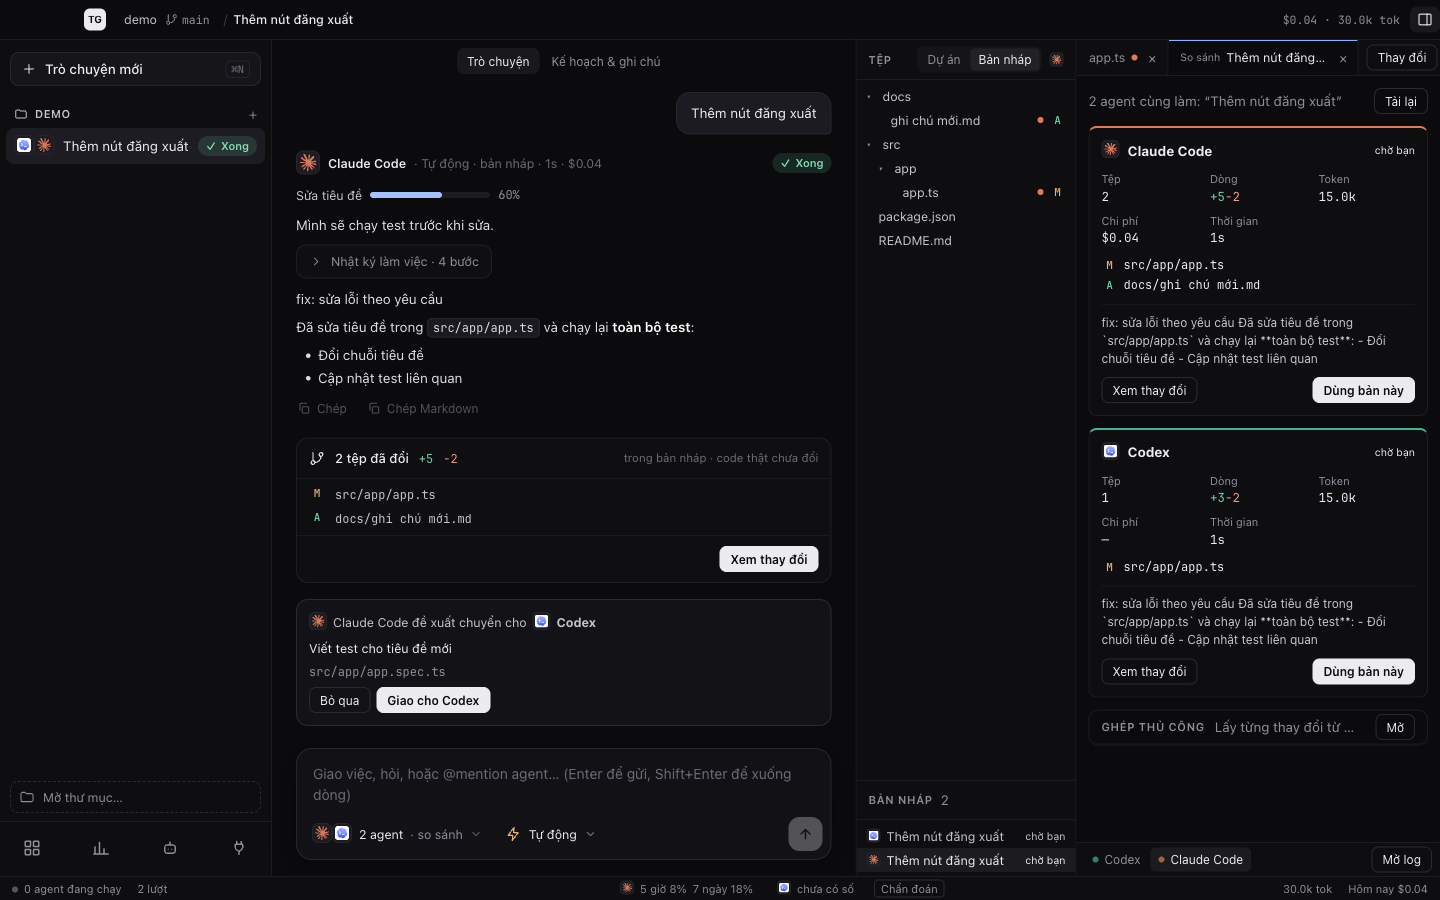
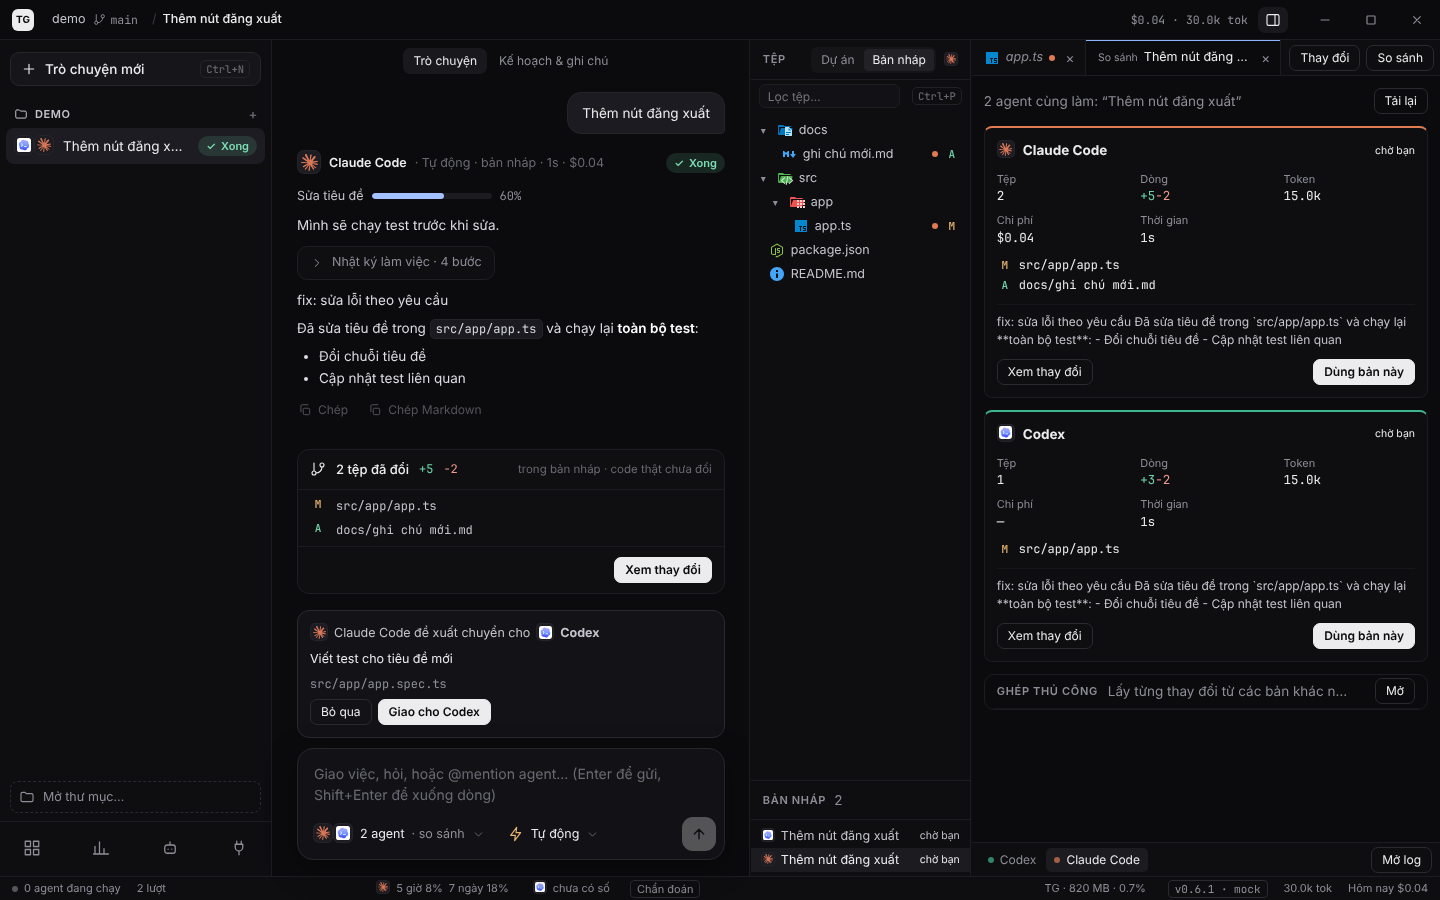
docs: architecture after the refactor, fresh screenshots, ui-review capture script
ARCHITECTURE.md: module diagram by domain, the full agent-event contract,
direct and draft workplaces with the git-style Changes tab, the chat-first
layout, and a section on delegated agents and Claude's own subagents.

Screenshots in docs/images and all ui-review screens are taken again from the
mock (v0.6.1), with two new review screens: the Changes tab and delegation.
scripts/capture-ui-review.js produces the ui-review WebP files; the README
capture also shows the Changes tab and a delegation.

The mock's version now comes from version-sync (and release stages it), so
screenshots show the real version. Two hints still said changes are undone
hunk by hunk; they now say per file.

Claude-Session: https://claude.ai/code/session_019ESpyWVEEKKYJq5zzNYY2i

diff --git a/scripts/capture-ui-review.js b/scripts/capture-ui-review.js
@@ -1,0 +1,133 @@
+// Screens for docs/ui-review/ (img/<id>.webp, 1440×900 at 2×), taken from the mock UI.
+// The download site's gallery uses some of them too.
+//   npm start -- --port 4321
+//   node scripts/capture-ui-review.js [out-dir]        (default docs/ui-review/img)
+// Needs Playwright (require('playwright')) and ffmpeg for the WebP files; without ffmpeg
+// the PNG files are kept next to where the WebP would go.
+const { chromium } = require('playwright');
+const { execFileSync } = require('node:child_process');
+const fs = require('node:fs');
+const path = require('node:path');
+
+const URL = 'http://localhost:4321/';
+const out = path.resolve(process.argv[2] ?? 'docs/ui-review/img');
+
+function hasFfmpeg() {
+  try { execFileSync('ffmpeg', ['-version'], { stdio: 'ignore' }); return true; } catch { return false; }
+}
+
+(async () => {
+  fs.mkdirSync(out, { recursive: true });
+  const webp = hasFfmpeg();
+  const browser = await chromium.launch();
+  const ctx = await browser.newContext({ viewport: { width: 1440, height: 900 }, deviceScaleFactor: 2, colorScheme: 'dark' });
+  const p = await ctx.newPage();
+
+  const open = async (repo) => {
+    await p.evaluate(() => localStorage.clear()).catch(() => {});
+    await p.goto(URL);
+    await p.evaluate((repo) => {
+      localStorage.clear();
+      localStorage.setItem('tg.onboarded', '1');
+      if (repo) localStorage.setItem('tg.repo', '/Users/you/projects/demo');
+    }, repo);
+    await p.goto(URL);
+    await p.waitForSelector(repo ? 'textarea#prompt' : 'button:has-text("Mở thư mục dự án")');
+    await p.waitForTimeout(800);
+    // The mock-mode hint is for developers, not for screenshots.
+    await p.evaluate(() => { for (const el of document.querySelectorAll('.statusbar .mock')) el.style.visibility = 'hidden'; });
+  };
+  const fresh = () => open(true);
+  const shot = async (id, settle = 400) => {
+    await p.waitForTimeout(settle);
+    const png = path.join(out, `${id}.png`);
+    await p.screenshot({ path: png });
+    if (webp) {
+      execFileSync('ffmpeg', ['-y', '-loglevel', 'error', '-i', png, '-c:v', 'libwebp', '-quality', '82', path.join(out, `${id}.webp`)]);
+      fs.rmSync(png);
+    }
+    console.log(id);
+  };
+  const ask = async (text) => {
+    await p.fill('textarea#prompt', text);
+    await p.press('textarea#prompt', 'Enter');
+  };
+  const chip = (n) => p.click(`.chip-btn[aria-haspopup="true"] >> nth=${n}`);
+  const done = async () => {
+    await p.waitForSelector('.pill[data-status="waiting"]', { timeout: 15000 });
+    await p.waitForTimeout(3500); // the reply finishes typing out
+  };
+
+  // Bắt đầu
+  await open(false);
+  await shot('01-welcome');
+  await fresh();
+  await shot('02-new-chat');
+
+  // Ô chat
+  await chip(0);
+  await p.waitForSelector('.agent-pop');
+  await shot('03-agent-model');
+  await p.click('button:has-text("Giao cho nhiều agent…")');
+  await shot('04-parallel');
+
+  await fresh();
+  await chip(1);
+  await p.waitForSelector('.perm-pop');
+  await shot('05-permissions');
+
+  await fresh();
+  await chip(2);
+  await shot('06-place');
+
+  await fresh();
+  await chip(1);
+  await p.click('button.opt:has-text("Tự động")');
+  await shot('12-auto-warning');
+
+  // Agent làm việc
+  await fresh();
+  await ask('Sửa tiêu đề trang chủ và chạy test');
+  await p.waitForSelector('tg-permission-card');
+  await shot('07-approval-status');
+  await p.click('button:has-text("Cho phép lần này")');
+  await p.waitForSelector('.worklog.live');
+  await shot('08-running-status', 0); // the mock finishes in about half a second
+  await done();
+  await p.click('.tab:has-text("app.ts")').catch(() => {});
+  await shot('09-done-changes');
+  await p.click('button:has-text("Xem thay đổi")');
+  await p.waitForSelector('.chg-row');
+  await shot('17-changes');
+
+  await fresh();
+  await ask('Sửa tiêu đề trang chủ, chia việc viết test cho agent khác');
+  await p.waitForSelector('tg-permission-card');
+  await p.click('button:has-text("Cho phép lần này")');
+  await p.waitForSelector('.dlg-item');
+  await done();
+  await p.click('.dlg-toggle >> nth=0');
+  await shot('18-delegate');
+
+  // Hỏi đáp
+  await fresh();
+  await chip(1);
+  await p.click('button.opt:has-text("Chỉ hỏi")');
+  await ask('Dự án dùng Angular bản nào?');
+  await p.waitForSelector('.msg-agent.typing', { timeout: 10000 });
+  await shot('10-question-typing', 150);
+  await p.waitForTimeout(3500);
+  await p.hover('.msg-agent pre').catch(() => {});
+  await shot('11-question-copy');
+
+  // Các màn khác
+  for (const [id, label] of [['13-mission', 'Giám sát'], ['14-usage', 'Chi phí'], ['15-agents', 'Agent'], ['16-integrations', 'Kết nối']]) {
+    await p.click(`button.tl-screen[aria-label="${label}"]`);
+    await p.waitForTimeout(800);
+    await shot(id);
+    await p.click(`button.tl-screen[aria-label="${label}"]`);
+  }
+
+  await browser.close();
+  if (!webp) console.log('Không có ffmpeg: giữ ảnh PNG, hãy đổi sang WebP trước khi commit.');
+})().catch((e) => { console.error(e); process.exit(1); });

diff --git a/docs/ui-review/index.html b/docs/ui-review/index.html
@@ -141,7 +141,7 @@ textarea.note::placeholder { color: var(--faint); }
   <header class="bar">
     <div class="brand">
       <span class="mark" aria-hidden="true">TG</span>
-      <div><h1>TG Studio · Giao diện</h1><small>16 màn hình · 5 luồng · ảnh chụp chế độ mock</small></div>
+      <div><h1>TG Studio · Giao diện</h1><small>18 màn hình · 5 luồng · ảnh chụp chế độ mock</small></div>
     </div>
     <div class="tabs" role="tablist" aria-label="Chế độ xem">
       <button role="tab" id="tab-board" aria-selected="true" aria-controls="board" type="button">Toàn cảnh</button>
@@ -230,13 +230,15 @@ const FLOWS = [
     { id: '03-agent-model', title: 'Chọn agent, model và mức suy nghĩ', checks: ['Agent bên trái, model bên phải, có mô tả ngắn', 'Mức suy nghĩ: Mặc định / Thấp / Vừa / Cao', 'Cuối menu: Giao cho nhiều agent, Theo các bước'] },
     { id: '04-parallel', title: 'Giao cho nhiều agent', checks: ['Tick nhiều agent, mỗi agent hiện model đang chọn', 'Chip đổi thành logo chồng nhau + "N agent · so sánh"'] },
     { id: '05-permissions', title: '3 quyền cho mọi agent', checks: ['Chỉ hỏi / Sửa code · hỏi trước / Tự động, mỗi mục có một dòng giải thích', 'Tự động ghi rõ git push / merge vẫn bị chặn'] },
-    { id: '06-place', title: 'Làm ở đâu: thư mục hiện tại hoặc bản nháp từ nhánh', checks: ['Thư mục hiện tại là mặc định, có giải thích Giữ / Hoàn tác', 'Danh sách nhánh của repo, đánh dấu nhánh đang mở', 'Cảnh báo vàng khi chọn Tự động + Thư mục hiện tại'] },
+    { id: '06-place', title: 'Làm ở đâu: thư mục hiện tại hoặc bản nháp từ nhánh', checks: ['Thư mục hiện tại là mặc định, có giải thích commit / hoàn tác theo tệp', 'Danh sách nhánh của repo, đánh dấu nhánh đang mở', 'Cảnh báo vàng khi chọn Tự động + Thư mục hiện tại'] },
     { id: '12-auto-warning', title: 'Tự động + Thư mục hiện tại', checks: ['Dòng cảnh báo vàng ngay dưới ô chat', 'Chip quyền hiện biểu tượng tia sét màu vàng'] },
   ]},
   { id: 'working', title: 'Agent làm việc', desc: 'Từ lúc gửi yêu cầu tới lúc duyệt thay đổi.', screens: [
     { id: '07-approval-status', title: 'Agent xin phép chạy lệnh', checks: ['Thẻ duyệt vàng ghim ngay trên ô chat', 'Dòng trạng thái vàng "đang chờ bạn" + Dừng (Esc)', 'Cột trái: nhãn vàng Chờ duyệt; icon Giám sát có số 1'] },
     { id: '08-running-status', title: 'Agent đang làm', checks: ['Dòng trạng thái xanh: tên agent, 3 chấm, đồng hồ, việc đang làm', 'Nhật ký làm việc mở và chạy trực tiếp', 'Nút gửi đổi thành nút dừng'] },
-    { id: '09-done-changes', title: 'Agent làm xong, có thay đổi', checks: ['Câu trả lời Markdown; nhật ký thu gọn còn 1 dòng', 'Thẻ "N tệp đã đổi · đã ở trong code của bạn"', 'Editor có thanh Hoàn tác / Giữ cho từng đoạn', 'Chép / Chép Markdown dưới câu trả lời'] },
+    { id: '09-done-changes', title: 'Agent làm xong, có thay đổi', checks: ['Câu trả lời Markdown; nhật ký thu gọn còn 1 dòng', 'Thẻ "N tệp đã đổi · đã ở trong code của bạn"', 'Editor đánh dấu đoạn agent sửa, nút Hoàn tác đoạn này (không bắt buộc)', 'Chép / Chép Markdown dưới câu trả lời'] },
+    { id: '17-changes', title: 'Tab Thay đổi kiểu git', checks: ['Tổng "N tệp · +A −R", ô nội dung commit gợi ý từ yêu cầu, nút Commit N tệp', 'Nhóm Của agent (đã chọn) và Bạn tự sửa (chưa chọn), có avatar agent', 'Nút ↶ hoàn tác từng tệp và Hoàn tác tất cả'] },
+    { id: '18-delegate', title: 'Agent giao việc cho agent khác', checks: ['Dòng Codex và Claude phụ lồng ngay chỗ Claude đã giao', 'Mỗi dòng: trạng thái, thời gian, chi phí, tệp đã gộp', 'Bấm vào để xem nhật ký của agent con ngay tại chỗ'] },
   ]},
   { id: 'ask', title: 'Hỏi đáp', desc: 'Câu hỏi Chỉ hỏi: đọc, trả lời, không sửa tệp.', screens: [
     { id: '10-question-typing', title: 'Agent đang trả lời', checks: ['Con trỏ nhấp nháy ở cuối câu đang viết', 'Dòng trạng thái "đang trả lời" ngay trên ô chat'] },

diff --git a/src/app/chat/place-menu.ts b/src/app/chat/place-menu.ts
@@ -16,7 +16,7 @@ import { ChatState } from './chat.state';
         <div class="pop place-pop" role="listbox" aria-label="Agent làm ở đâu" (keydown.escape)="chat.menu.set(null)">
           <button role="option" class="opt tall" [class.on]="chat.place() === 'direct'" [attr.aria-selected]="chat.place() === 'direct'" (click)="chat.setPlace('direct')">
             <svg class="ic" viewBox="0 0 24 24" aria-hidden="true"><path d="M3 7a2 2 0 0 1 2-2h4l2 2h8a2 2 0 0 1 2 2v8a2 2 0 0 1-2 2H5a2 2 0 0 1-2-2z"/></svg>
-            <span class="grow"><strong>Thư mục hiện tại</strong><span class="opt-desc">Agent sửa thẳng code của bạn, thấy cả phần bạn đang sửa dở. Panel Thay đổi chỉ hiện phần agent sửa; Hoàn tác từng đoạn được.</span></span>
+            <span class="grow"><strong>Thư mục hiện tại</strong><span class="opt-desc">Agent sửa thẳng code của bạn, thấy cả phần bạn đang sửa dở. Tab Thay đổi chỉ hiện phần agent sửa; commit hoặc hoàn tác theo tệp.</span></span>
             @if (chat.place() === 'direct') { <span aria-hidden="true">✓</span> }
           </button>
           <div class="pop-title">Bản nháp riêng từ nhánh</div>

diff --git a/scripts/capture-screens.js b/scripts/capture-screens.js
@@ -51,6 +51,8 @@ async (page) => {
   await p.click('button:has-text("Cho phép lần này")');
   await p.waitForSelector('.pill[data-status="waiting"]', { timeout: 15000 });
   await p.waitForTimeout(3500); // the reply finishes typing out
+  await p.click('button:has-text("Xem thay đổi")');
+  await p.waitForSelector('.chg-row');
   await shot('chat-review');
 
   // Xoá một cuộc trò chuyện, xác nhận ngay tại dòng.
@@ -58,6 +60,17 @@ async (page) => {
   await p.click('.tl-del');
   await p.waitForSelector('.tl-confirm');
   await shot('delete');
+
+  // Claude giao một phần việc cho Codex và một Claude phụ (mock: "chia việc" trong yêu cầu).
+  await fresh();
+  await ask('Sửa tiêu đề trang chủ, chia việc viết test cho agent khác');
+  await p.waitForSelector('tg-permission-card');
+  await p.click('button:has-text("Cho phép lần này")');
+  await p.waitForSelector('.dlg-item');
+  await p.waitForSelector('.pill[data-status="waiting"]', { timeout: 15000 });
+  await p.waitForTimeout(3500);
+  await p.click('.dlg-toggle >> nth=0');
+  await shot('delegate');
 
   // Nhiều agent cùng làm, so sánh và chọn một bản.
   await fresh();

diff --git a/src/app/shell/status-bar.spec.ts b/src/app/shell/status-bar.spec.ts
@@ -68,14 +68,16 @@ describe('StatusBar version', () => {
   it('shows the build and its commit, and says when a newer release is out', async () => {
     const bar = await render([]);
     const button = () => bar.querySelector('.version') as HTMLButtonElement;
-    expect(button().textContent!.trim()).toBe('v0.5.1 · mock');
-    expect(button().title).toContain('Đang dùng bản mới nhất (v0.5.1)');
+    // The mock reports package.json's version (kept in step by version-sync).
+    const { version } = await bar.backend.appVersion();
+    expect(button().textContent!.trim()).toBe(`v${version} · mock`);
+    expect(button().title).toContain(`Đang dùng bản mới nhất (v${version})`);
 
-    bar.backend.latestVersion = async () => ({ latest: '0.6.0', newer: true });
+    bar.backend.latestVersion = async () => ({ latest: '99.0.0', newer: true });
     button().click();
     await new Promise((resolve) => setTimeout(resolve));
     bar.fixture.detectChanges();
-    expect(button().textContent).toContain('có v0.6.0');
+    expect(button().textContent).toContain('có v99.0.0');
     expect(button().classList).toContain('newer');
   });
 

diff --git a/src/app/core/mock-backend.ts b/src/app/core/mock-backend.ts
@@ -3,6 +3,9 @@ import { AccountLimits, AgentEvent, AgentOptions, BridgeNote, AgentId, CheckResu
 import { AGENT_META } from '../agents/agent-meta';
 import { mockContents, mockDiff, mockLimits, parseSkill } from './mock-fixtures';
 
+/** The version the mock reports; `npm run version:sync` keeps it equal to package.json. */
+const APP_VERSION = '0.6.1';
+
 interface MockRun {
   /** Its session waits for more messages after a turn. */
   open?: boolean;
@@ -509,11 +512,11 @@ export class MockBackend extends AgentBackend {
   }
 
   async appVersion(): Promise<AppVersion> {
-    return { version: '0.5.1', commit: 'mock', builtAt: Date.now() };
+    return { version: APP_VERSION, commit: 'mock', builtAt: Date.now() };
   }
 
   async latestVersion(): Promise<LatestVersion> {
-    return { latest: '0.5.1', newer: false };
+    return { latest: APP_VERSION, newer: false };
   }
 
   /** Plausible numbers: the app, one process tree per live run, and a stray probe. */

diff --git a/src/app/chat/composer.ts b/src/app/chat/composer.ts
@@ -57,7 +57,7 @@ import { ChatState } from './chat.state';
   </div>
 }
 @if (chat.perm() === 'auto' && (chat.run()?.task ? chat.run()?.place === 'direct' : chat.effectivePlace() === 'direct')) {
-  <p class="cmp-hint warn-text">Tự động + Thư mục hiện tại: agent sửa thẳng code của bạn mà không hỏi. Hoàn tác được từng đoạn ở panel Thay đổi.</p>
+  <p class="cmp-hint warn-text">Tự động + Thư mục hiện tại: agent sửa thẳng code của bạn mà không hỏi. Hoàn tác được theo tệp ở tab Thay đổi.</p>
 }
 @if (chat.blocked(); as b) { @if (chat.prompt().trim() || chat.run()?.status !== 'running') { <p class="dim cmp-hint">{{ b }}</p> } }
 @else if (chat.loginHint(); as h) { <p class="cmp-hint warn-text">{{ h }}</p> }

diff --git a/README.md b/README.md
@@ -56,10 +56,10 @@ App desktop để chat và giao việc cho nhiều coding agent (**Claude Code, 
 
 ![Màn Chi phí](docs/images/usage.png)
 
-<sub>Ảnh chụp ở chế độ mock (`npm start`), dữ liệu là mẫu. Chụp lại: `npm start -- --port 4321` rồi chạy `scripts/capture-screens.js` bằng Playwright.</sub>
+<sub>Ảnh chụp ở chế độ mock (`npm start`), dữ liệu là mẫu. Chụp lại: `npm start -- --port 4321`, rồi chạy `scripts/capture-screens.js` bằng Playwright (ảnh trong `docs/images/`) và `node scripts/capture-ui-review.js` (ảnh của trang review và trang tải).</sub>
 
 **Review giao diện:** mở `docs/ui-review/index.html` trong trình duyệt.
-- **Toàn cảnh** xếp các màn hình theo luồng trên một bảng kéo, phóng to được.
+- **Toàn cảnh** xếp 18 màn hình theo luồng trên một bảng kéo, phóng to được.
 - **▶ Trình chiếu** chạy lần lượt từng màn kèm chú thích.
 - **Review** để đánh dấu Đạt / Cần sửa và chép kết quả.
 
